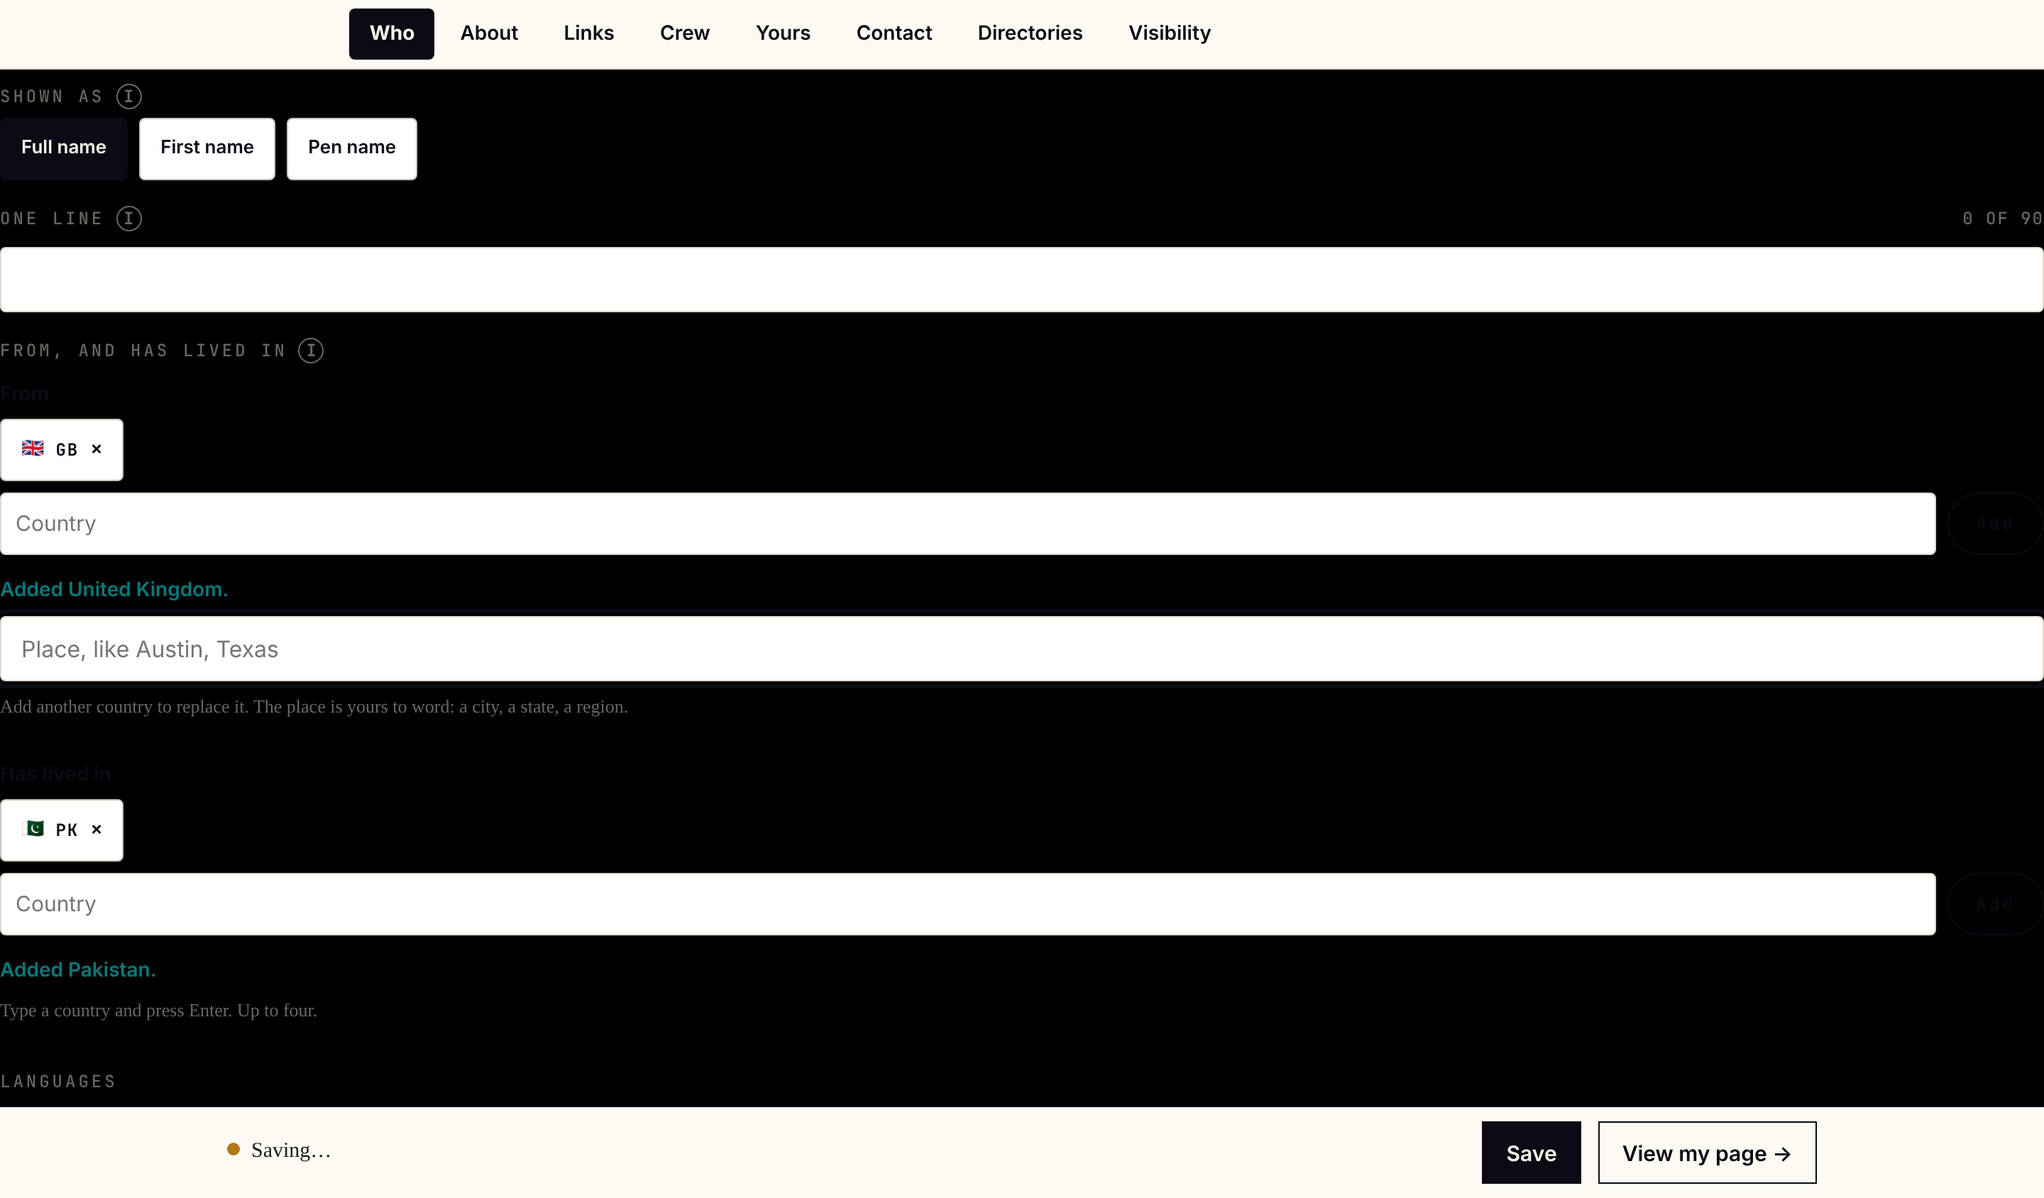
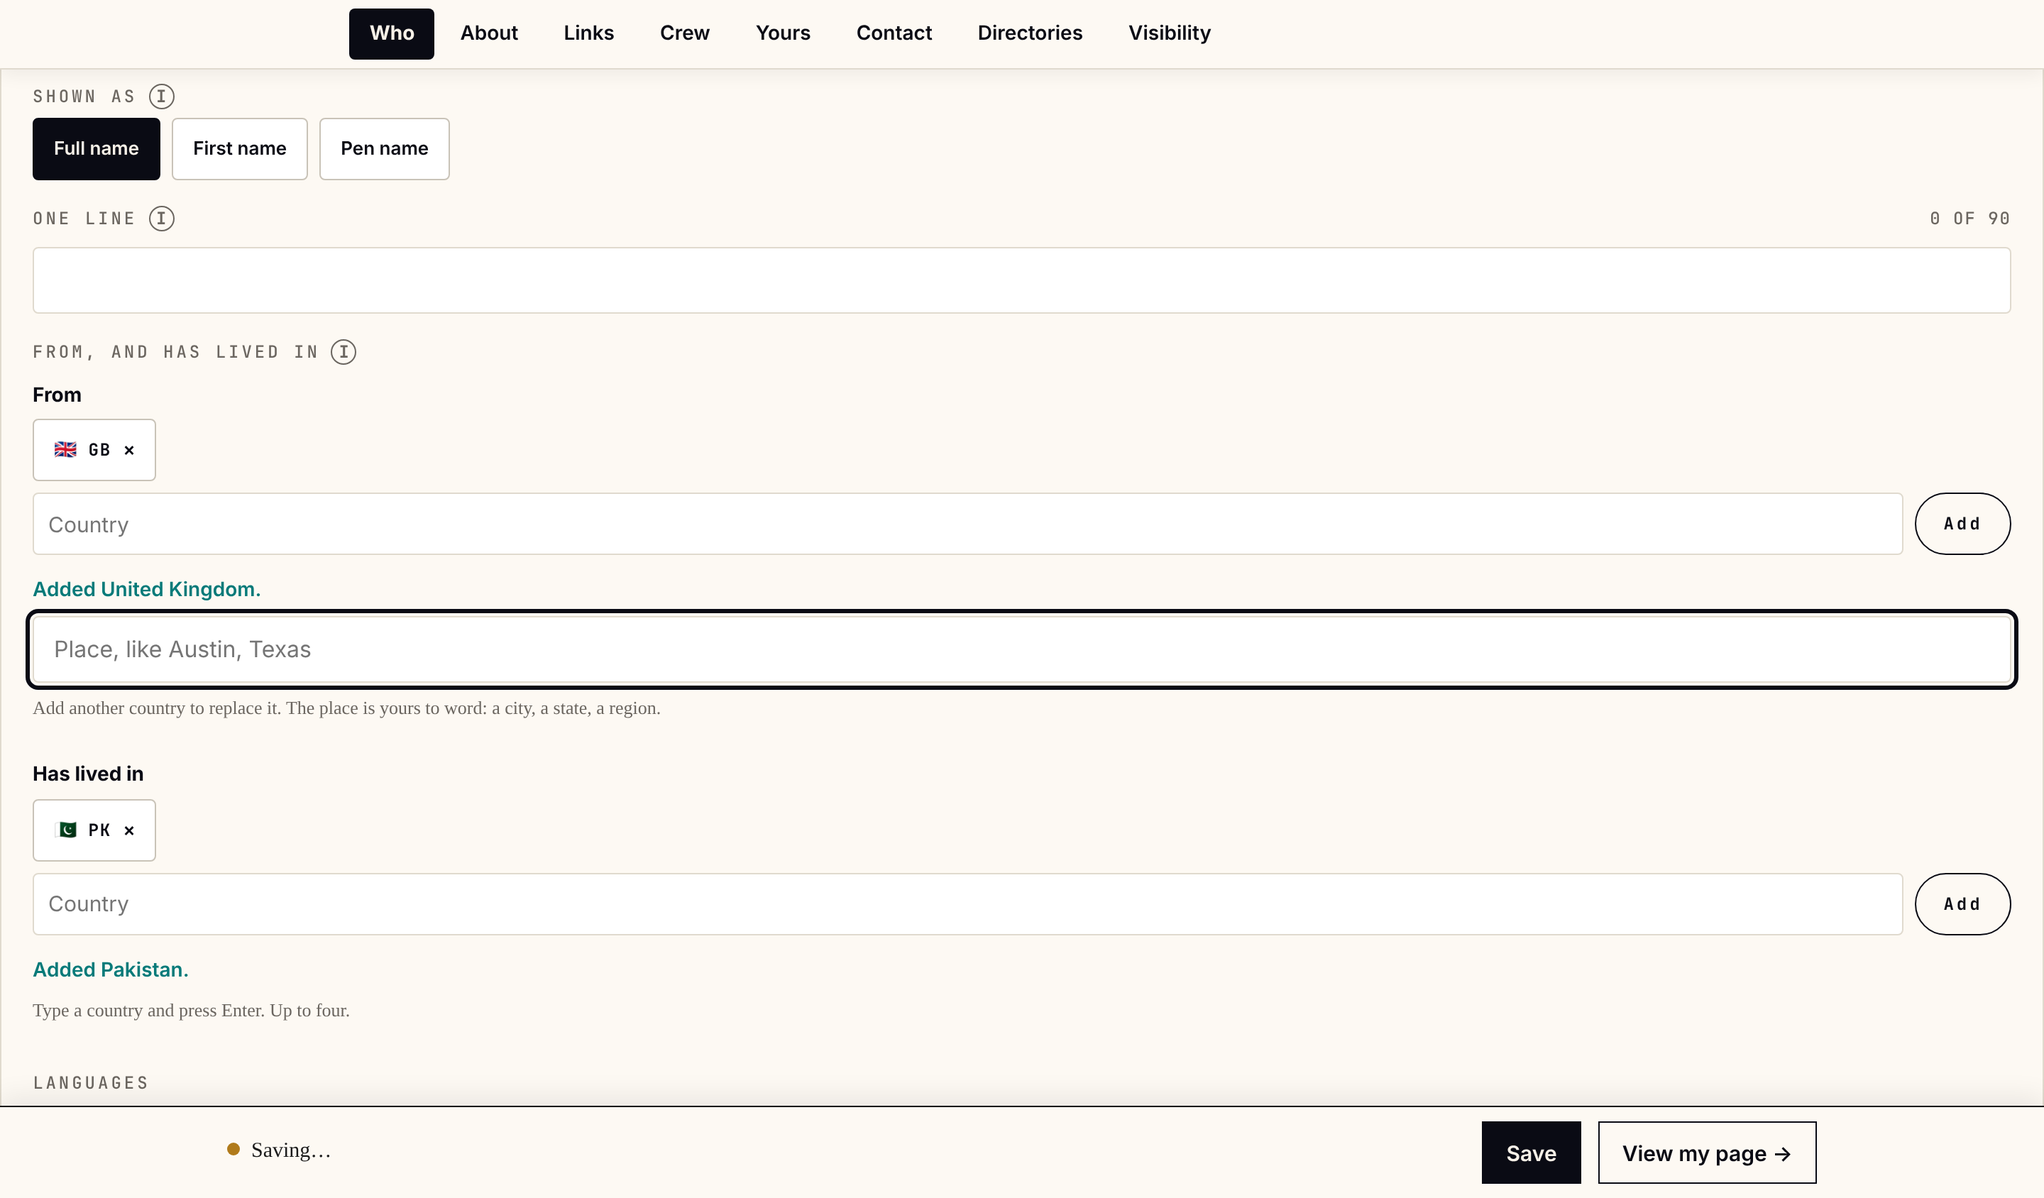
Site layers v16 (16.6.0): /edit-profile in blocks with required and optional marks; Save photo in the crop dialog
Claude-Session: https://claude.ai/code/session_01GTTttGvX2VTwovAB2g1cLf

diff --git a/src/site-layers/tll-site-layers-v16.js b/src/site-layers/tll-site-layers-v16.js
@@ -425,6 +425,15 @@ var CSS=
 ".tll-eps-btn:focus-visible{outline:3px solid #C8325B;outline-offset:2px}"+
 /* preview card: "80-something +AQ" broke mid-word in a third of the card; stats now wrap as whole words */
 "html body .ep-pv-stats{display:flex!important;flex-wrap:wrap;gap:12px 22px}html body .ep-pv-stats>*{min-width:0}html body .ep-pv-stats b{white-space:nowrap;overflow-wrap:normal!important;word-break:keep-all;font-size:28px!important}"+
+/* blocks (Nancy: "too long. Should be in blocks. Also should identify optional vs required") */
+"html body section.ep-sec.tll-eps-blk{position:relative;background:#FDF9F3;border:1.5px solid #E0DACE;border-radius:4px;padding:22px 22px 24px!important;margin:0 0 16px!important}"+
+"html body section.ep-sec.tll-eps-blk>h2.ep-eb{cursor:pointer;padding-right:96px;margin-bottom:12px}"+
+"html body section.ep-sec.tll-eps-shut{padding-bottom:22px!important}html body section.ep-sec.tll-eps-shut>h2.ep-eb{margin-bottom:0}"+
+"html body section.ep-sec.tll-eps-shut>*:not(h2.ep-eb):not(.tll-eps-tog){display:none!important}"+
+".tll-eps-chip{display:inline-block;vertical-align:middle;margin-left:10px;padding:4px 8px;border:1px solid #D9D2C5;border-radius:999px;font:600 12px/1 'JetBrains Mono',ui-monospace,monospace;letter-spacing:.06em;text-transform:uppercase;color:#5F5A54;background:#FFFFFF}"+
+".tll-eps-chip--req{border-color:#C8325B;color:#C8325B}"+
+".tll-eps-tog{position:absolute;top:16px;right:16px;min-height:44px;padding:0 14px;border:1.5px solid #0A0B14;background:transparent;color:#0A0B14;font:600 14px/1 'IBM Plex Sans Condensed',system-ui,sans-serif;cursor:pointer;border-radius:0}"+
+".tll-eps-tog:focus-visible{outline:3px solid #C8325B;outline-offset:2px}"+
 "@media (max-width:520px){.tll-eps-t{font-size:13px}.tll-eps-btn{padding:0 12px;font-size:14px}.tll-eps-btn--ghost{display:none}}"+
 /* country suggestions */
 ".tll-eps-ac{position:relative}"+
@@ -453,13 +462,13 @@ var lastErr='';
 (function(){var f=window.fetch;if(!f||f.__tllEps)return;var w=function(u,o){var p=f.apply(this,arguments);var s=String(u&&u.url||u);
   if(/\/profile\/save$/.test(s))p.then(function(r){if(r.ok){lastErr='';return;}r.clone().json().then(function(j){lastErr=String(j&&j.error||'');paint();}).catch(function(){lastErr='';});}).catch(function(){lastErr='';});
   return p;};w.__tllEps=1;window.fetch=w;})();
-var bar,txt,btn,retry,save,okTimer=0;
+var bar,txt,btn,retry,save,okTimer=0,photoPending=false;
 function hhmm(){var d=new Date();return d.toLocaleTimeString([], {hour:'numeric',minute:'2-digit'});}
 function paint(){var s=$('[data-ep-status]');if(!s||!bar)return;var st=s.getAttribute('data-state')||'',t=(s.textContent||'').trim();
   bar.setAttribute('data-s',st||'idle');
-  if(st==='busy'){txt.innerHTML='<span class="tll-eps-dot"></span>Saving…';}
-  else if(st==='ok'){txt.innerHTML='<span class="tll-eps-dot"></span><b>Saved</b> · '+hhmm();}
-  else if(st==='fail'){var why=/did not update/.test(t)&&lastErr?'Saved to your account. Your public page did not update yet: '+lastErr:t;txt.innerHTML='';var d=el('span','tll-eps-dot');txt.appendChild(d);txt.appendChild(D.createTextNode(why));}
+  if(st==='busy'){txt.innerHTML='<span class="tll-eps-dot"></span>'+(photoPending?'Saving your photo…':'Saving…');}
+  else if(st==='ok'){txt.innerHTML='<span class="tll-eps-dot"></span><b>'+(photoPending?'Photo saved':'Saved')+'</b> · '+hhmm();photoPending=false;}
+  else if(st==='fail'){photoPending=false;var why=/did not update/.test(t)&&lastErr?'Saved to your account. Your public page did not update yet: '+lastErr:t;txt.innerHTML='';var d=el('span','tll-eps-dot');txt.appendChild(d);txt.appendChild(D.createTextNode(why));}
   else{txt.innerHTML='<span class="tll-eps-dot"></span>Changes save as you type, or tap Save.';}
   retry.hidden=st!=='fail';btn.hidden=st==='fail';save.hidden=st==='fail';}
 function buildBar(){if($('.tll-eps'))return;bar=el('div','tll-eps');bar.setAttribute('data-s','idle');
@@ -523,7 +532,7 @@ function show(img,url,input){var back=D.activeElement,ov=el('div','tll-eps-crop'
   card.innerHTML='<h2 id="tll-eps-ch">Place your photo</h2><p>Drag to move it, zoom to fit. The circle is what shows on your card.</p>';
   var st=el('div','tll-eps-stage'),cv=el('canvas');cv.width=720;cv.height=720;st.appendChild(cv);st.tabIndex=0;st.setAttribute('aria-label','Photo position. Arrow keys move it, plus and minus zoom.');
   var zw=el('label','tll-eps-zoom');zw.innerHTML='<span>Zoom</span>';var z=el('input');z.type='range';z.min='1';z.max='3';z.step='0.01';z.value='1';z.setAttribute('aria-label','Zoom');zw.appendChild(z);
-  var acts=el('div','tll-eps-acts'),cancel=el('button','tll-eps-btn tll-eps-btn--ghost'),use=el('button','tll-eps-btn');cancel.type=use.type='button';cancel.textContent='Cancel';use.textContent='Use photo';acts.appendChild(cancel);acts.appendChild(use);
+  var acts=el('div','tll-eps-acts'),cancel=el('button','tll-eps-btn tll-eps-btn--ghost'),use=el('button','tll-eps-btn');cancel.type=use.type='button';cancel.textContent='Cancel';use.textContent='Save photo';acts.appendChild(cancel);acts.appendChild(use);
   card.appendChild(st);card.appendChild(zw);card.appendChild(acts);ov.appendChild(card);D.body.appendChild(ov);
   var W=img.naturalWidth,H=img.naturalHeight,base=Math.max(720/W,720/H),s=base,x=(720-W*s)/2,y=(720-H*s)/2,ctx=cv.getContext('2d');
   function clamp(){var w=W*s,h=H*s;x=Math.min(0,Math.max(720-w,x));y=Math.min(0,Math.max(720-h,y));}
@@ -544,13 +553,35 @@ function show(img,url,input){var back=D.activeElement,ov=el('div','tll-eps-crop'
   D.addEventListener('keydown',esc,true);
   cancel.addEventListener('click',function(){done();input.value='';});
   use.addEventListener('click',function(){var out=el('canvas');out.width=out.height=1080;var o=out.getContext('2d'),k=1080/720;o.fillStyle='#FFFFFF';o.fillRect(0,0,1080,1080);o.drawImage(img,x*k,y*k,W*s*k,H*s*k);
-    out.toBlob(function(b){done();if(!b)return;var f=new File([b],'profile-photo.jpg',{type:'image/jpeg'});pass(input,f);},'image/jpeg',.9);});
+    use.disabled=true;use.textContent='Saving…';out.toBlob(function(b){done();if(!b)return;var f=new File([b],'profile-photo.jpg',{type:'image/jpeg'});photoPending=true;pass(input,f);},'image/jpeg',.9);});
   setTimeout(function(){st.focus();},30);}
 D.addEventListener('change',function(e){var t=e.target;if(!t||t.id!=='ep-f-photo'||t.__tllEpsPass)return;var f=t.files&&t.files[0];if(!f||!/^image\//.test(f.type||'image/'))return;
   e.stopImmediatePropagation();e.preventDefault();cropFlow(f,t);},true);
 
+/* ---------- 6: the page as blocks ---------- */
+var CHIP={'ep-who':['Name required','req'],'ep-dirs':null};
+function setShut(sec,shut){sec.classList.toggle('tll-eps-shut',shut);var b=sec.querySelector(':scope>.tll-eps-tog');if(b){b.textContent=shut?'Open':'Close';b.setAttribute('aria-expanded',shut?'false':'true');}}
+function openTo(id){var sec=D.getElementById(id);if(sec&&sec.classList.contains('tll-eps-blk'))setShut(sec,false);}
+/* Some parts of a section are their own embeds after it (Shown as, One line, From and lived in after Who you are; the bio note after
+   About you). Each part with no section of its own moves into the section before it, so the block holds all of its fields. */
+function gather(){var secs=[].slice.call(D.querySelectorAll('section.ep-sec[id]'));if(!secs.length)return;
+  [].forEach.call(D.querySelectorAll('div[data-ep]'),function(d){var k=d.getAttribute('data-ep');if(k==='top'||d.querySelector('section.ep-sec')||d.closest('section.ep-sec'))return;
+    var prev=null;secs.forEach(function(s){if(s.compareDocumentPosition(d)&Node.DOCUMENT_POSITION_FOLLOWING)prev=s;});
+    if(!prev)return;var next=secs[secs.indexOf(prev)+1];if(next&&(next.compareDocumentPosition(d)&Node.DOCUMENT_POSITION_FOLLOWING))return;
+    prev.appendChild(d);});}
+function blocks(){gather();[].forEach.call(D.querySelectorAll('section.ep-sec[id]'),function(sec,i){if(sec.classList.contains('tll-eps-blk'))return;sec.classList.add('tll-eps-blk');
+  var h=sec.querySelector(':scope>h2.ep-eb');var c=CHIP.hasOwnProperty(sec.id)?CHIP[sec.id]:['Optional',''];
+  if(h&&c){var chip=el('span','tll-eps-chip'+(c[1]?' tll-eps-chip--req':''));chip.textContent=c[0];h.appendChild(chip);}
+  var t=el('button','tll-eps-tog');t.type='button';t.setAttribute('aria-controls',sec.id);sec.appendChild(t);
+  t.addEventListener('click',function(){setShut(sec,!sec.classList.contains('tll-eps-shut'));});
+  if(h)h.addEventListener('click',function(e){if(e.target.closest('a,button,[tabindex]'))return;setShut(sec,!sec.classList.contains('tll-eps-shut'));});
+  setShut(sec,sec.id!=='ep-who'&&location.hash!=='#'+sec.id);});
+  D.addEventListener('click',function(e){var a=e.target.closest&&e.target.closest('a[href^="#ep-"]');if(a){openTo(a.getAttribute('href').slice(1));return;}
+    if(e.target.closest&&e.target.closest('[data-ep-dev-next],[data-ep-next]'))[].forEach.call(D.querySelectorAll('section.tll-eps-shut'),function(x){setShut(x,false);});},true);
+  addEventListener('hashchange',function(){openTo(location.hash.slice(1));});}
+
 function run(){if(!D.getElementById('tll-ep-ux-v1')){var s=el('style');s.id='tll-ep-ux-v1';s.textContent=CSS;D.head.appendChild(s);}
-  buildBar();watchShifts();BOXES.forEach(function(b){wireBox(b[0],b[1]);});
+  buildBar();watchShifts();blocks();BOXES.forEach(function(b){wireBox(b[0],b[1]);});
   /* boxes the page draws later (the expat desks open when Live there is switched on) */
   new MutationObserver(function(){BOXES.forEach(function(b){wireBox(b[0],b[1]);});}).observe(D.body,{childList:true,subtree:true});}
 if(D.readyState==='loading')D.addEventListener('DOMContentLoaded',run);else run();

diff --git a/src/site-layers/tll-ep-ux-v1.js b/src/site-layers/tll-ep-ux-v1.js
@@ -37,6 +37,15 @@ var CSS=
 ".tll-eps-btn:focus-visible{outline:3px solid #C8325B;outline-offset:2px}"+
 /* preview card: "80-something +AQ" broke mid-word in a third of the card; stats now wrap as whole words */
 "html body .ep-pv-stats{display:flex!important;flex-wrap:wrap;gap:12px 22px}html body .ep-pv-stats>*{min-width:0}html body .ep-pv-stats b{white-space:nowrap;overflow-wrap:normal!important;word-break:keep-all;font-size:28px!important}"+
+/* blocks (Nancy: "too long. Should be in blocks. Also should identify optional vs required") */
+"html body section.ep-sec.tll-eps-blk{position:relative;background:#FDF9F3;border:1.5px solid #E0DACE;border-radius:4px;padding:22px 22px 24px!important;margin:0 0 16px!important}"+
+"html body section.ep-sec.tll-eps-blk>h2.ep-eb{cursor:pointer;padding-right:96px;margin-bottom:12px}"+
+"html body section.ep-sec.tll-eps-shut{padding-bottom:22px!important}html body section.ep-sec.tll-eps-shut>h2.ep-eb{margin-bottom:0}"+
+"html body section.ep-sec.tll-eps-shut>*:not(h2.ep-eb):not(.tll-eps-tog){display:none!important}"+
+".tll-eps-chip{display:inline-block;vertical-align:middle;margin-left:10px;padding:4px 8px;border:1px solid #D9D2C5;border-radius:999px;font:600 12px/1 'JetBrains Mono',ui-monospace,monospace;letter-spacing:.06em;text-transform:uppercase;color:#5F5A54;background:#FFFFFF}"+
+".tll-eps-chip--req{border-color:#C8325B;color:#C8325B}"+
+".tll-eps-tog{position:absolute;top:16px;right:16px;min-height:44px;padding:0 14px;border:1.5px solid #0A0B14;background:transparent;color:#0A0B14;font:600 14px/1 'IBM Plex Sans Condensed',system-ui,sans-serif;cursor:pointer;border-radius:0}"+
+".tll-eps-tog:focus-visible{outline:3px solid #C8325B;outline-offset:2px}"+
 "@media (max-width:520px){.tll-eps-t{font-size:13px}.tll-eps-btn{padding:0 12px;font-size:14px}.tll-eps-btn--ghost{display:none}}"+
 /* country suggestions */
 ".tll-eps-ac{position:relative}"+
@@ -65,13 +74,13 @@ var lastErr='';
 (function(){var f=window.fetch;if(!f||f.__tllEps)return;var w=function(u,o){var p=f.apply(this,arguments);var s=String(u&&u.url||u);
   if(/\/profile\/save$/.test(s))p.then(function(r){if(r.ok){lastErr='';return;}r.clone().json().then(function(j){lastErr=String(j&&j.error||'');paint();}).catch(function(){lastErr='';});}).catch(function(){lastErr='';});
   return p;};w.__tllEps=1;window.fetch=w;})();
-var bar,txt,btn,retry,save,okTimer=0;
+var bar,txt,btn,retry,save,okTimer=0,photoPending=false;
 function hhmm(){var d=new Date();return d.toLocaleTimeString([], {hour:'numeric',minute:'2-digit'});}
 function paint(){var s=$('[data-ep-status]');if(!s||!bar)return;var st=s.getAttribute('data-state')||'',t=(s.textContent||'').trim();
   bar.setAttribute('data-s',st||'idle');
-  if(st==='busy'){txt.innerHTML='<span class="tll-eps-dot"></span>Saving…';}
-  else if(st==='ok'){txt.innerHTML='<span class="tll-eps-dot"></span><b>Saved</b> · '+hhmm();}
-  else if(st==='fail'){var why=/did not update/.test(t)&&lastErr?'Saved to your account. Your public page did not update yet: '+lastErr:t;txt.innerHTML='';var d=el('span','tll-eps-dot');txt.appendChild(d);txt.appendChild(D.createTextNode(why));}
+  if(st==='busy'){txt.innerHTML='<span class="tll-eps-dot"></span>'+(photoPending?'Saving your photo…':'Saving…');}
+  else if(st==='ok'){txt.innerHTML='<span class="tll-eps-dot"></span><b>'+(photoPending?'Photo saved':'Saved')+'</b> · '+hhmm();photoPending=false;}
+  else if(st==='fail'){photoPending=false;var why=/did not update/.test(t)&&lastErr?'Saved to your account. Your public page did not update yet: '+lastErr:t;txt.innerHTML='';var d=el('span','tll-eps-dot');txt.appendChild(d);txt.appendChild(D.createTextNode(why));}
   else{txt.innerHTML='<span class="tll-eps-dot"></span>Changes save as you type, or tap Save.';}
   retry.hidden=st!=='fail';btn.hidden=st==='fail';save.hidden=st==='fail';}
 function buildBar(){if($('.tll-eps'))return;bar=el('div','tll-eps');bar.setAttribute('data-s','idle');
@@ -135,7 +144,7 @@ function show(img,url,input){var back=D.activeElement,ov=el('div','tll-eps-crop'
   card.innerHTML='<h2 id="tll-eps-ch">Place your photo</h2><p>Drag to move it, zoom to fit. The circle is what shows on your card.</p>';
   var st=el('div','tll-eps-stage'),cv=el('canvas');cv.width=720;cv.height=720;st.appendChild(cv);st.tabIndex=0;st.setAttribute('aria-label','Photo position. Arrow keys move it, plus and minus zoom.');
   var zw=el('label','tll-eps-zoom');zw.innerHTML='<span>Zoom</span>';var z=el('input');z.type='range';z.min='1';z.max='3';z.step='0.01';z.value='1';z.setAttribute('aria-label','Zoom');zw.appendChild(z);
-  var acts=el('div','tll-eps-acts'),cancel=el('button','tll-eps-btn tll-eps-btn--ghost'),use=el('button','tll-eps-btn');cancel.type=use.type='button';cancel.textContent='Cancel';use.textContent='Use photo';acts.appendChild(cancel);acts.appendChild(use);
+  var acts=el('div','tll-eps-acts'),cancel=el('button','tll-eps-btn tll-eps-btn--ghost'),use=el('button','tll-eps-btn');cancel.type=use.type='button';cancel.textContent='Cancel';use.textContent='Save photo';acts.appendChild(cancel);acts.appendChild(use);
   card.appendChild(st);card.appendChild(zw);card.appendChild(acts);ov.appendChild(card);D.body.appendChild(ov);
   var W=img.naturalWidth,H=img.naturalHeight,base=Math.max(720/W,720/H),s=base,x=(720-W*s)/2,y=(720-H*s)/2,ctx=cv.getContext('2d');
   function clamp(){var w=W*s,h=H*s;x=Math.min(0,Math.max(720-w,x));y=Math.min(0,Math.max(720-h,y));}
@@ -156,13 +165,35 @@ function show(img,url,input){var back=D.activeElement,ov=el('div','tll-eps-crop'
   D.addEventListener('keydown',esc,true);
   cancel.addEventListener('click',function(){done();input.value='';});
   use.addEventListener('click',function(){var out=el('canvas');out.width=out.height=1080;var o=out.getContext('2d'),k=1080/720;o.fillStyle='#FFFFFF';o.fillRect(0,0,1080,1080);o.drawImage(img,x*k,y*k,W*s*k,H*s*k);
-    out.toBlob(function(b){done();if(!b)return;var f=new File([b],'profile-photo.jpg',{type:'image/jpeg'});pass(input,f);},'image/jpeg',.9);});
+    use.disabled=true;use.textContent='Saving…';out.toBlob(function(b){done();if(!b)return;var f=new File([b],'profile-photo.jpg',{type:'image/jpeg'});photoPending=true;pass(input,f);},'image/jpeg',.9);});
   setTimeout(function(){st.focus();},30);}
 D.addEventListener('change',function(e){var t=e.target;if(!t||t.id!=='ep-f-photo'||t.__tllEpsPass)return;var f=t.files&&t.files[0];if(!f||!/^image\//.test(f.type||'image/'))return;
   e.stopImmediatePropagation();e.preventDefault();cropFlow(f,t);},true);
 
+/* ---------- 6: the page as blocks ---------- */
+var CHIP={'ep-who':['Name required','req'],'ep-dirs':null};
+function setShut(sec,shut){sec.classList.toggle('tll-eps-shut',shut);var b=sec.querySelector(':scope>.tll-eps-tog');if(b){b.textContent=shut?'Open':'Close';b.setAttribute('aria-expanded',shut?'false':'true');}}
+function openTo(id){var sec=D.getElementById(id);if(sec&&sec.classList.contains('tll-eps-blk'))setShut(sec,false);}
+/* Some parts of a section are their own embeds after it (Shown as, One line, From and lived in after Who you are; the bio note after
+   About you). Each part with no section of its own moves into the section before it, so the block holds all of its fields. */
+function gather(){var secs=[].slice.call(D.querySelectorAll('section.ep-sec[id]'));if(!secs.length)return;
+  [].forEach.call(D.querySelectorAll('div[data-ep]'),function(d){var k=d.getAttribute('data-ep');if(k==='top'||d.querySelector('section.ep-sec')||d.closest('section.ep-sec'))return;
+    var prev=null;secs.forEach(function(s){if(s.compareDocumentPosition(d)&Node.DOCUMENT_POSITION_FOLLOWING)prev=s;});
+    if(!prev)return;var next=secs[secs.indexOf(prev)+1];if(next&&(next.compareDocumentPosition(d)&Node.DOCUMENT_POSITION_FOLLOWING))return;
+    prev.appendChild(d);});}
+function blocks(){gather();[].forEach.call(D.querySelectorAll('section.ep-sec[id]'),function(sec,i){if(sec.classList.contains('tll-eps-blk'))return;sec.classList.add('tll-eps-blk');
+  var h=sec.querySelector(':scope>h2.ep-eb');var c=CHIP.hasOwnProperty(sec.id)?CHIP[sec.id]:['Optional',''];
+  if(h&&c){var chip=el('span','tll-eps-chip'+(c[1]?' tll-eps-chip--req':''));chip.textContent=c[0];h.appendChild(chip);}
+  var t=el('button','tll-eps-tog');t.type='button';t.setAttribute('aria-controls',sec.id);sec.appendChild(t);
+  t.addEventListener('click',function(){setShut(sec,!sec.classList.contains('tll-eps-shut'));});
+  if(h)h.addEventListener('click',function(e){if(e.target.closest('a,button,[tabindex]'))return;setShut(sec,!sec.classList.contains('tll-eps-shut'));});
+  setShut(sec,sec.id!=='ep-who'&&location.hash!=='#'+sec.id);});
+  D.addEventListener('click',function(e){var a=e.target.closest&&e.target.closest('a[href^="#ep-"]');if(a){openTo(a.getAttribute('href').slice(1));return;}
+    if(e.target.closest&&e.target.closest('[data-ep-dev-next],[data-ep-next]'))[].forEach.call(D.querySelectorAll('section.tll-eps-shut'),function(x){setShut(x,false);});},true);
+  addEventListener('hashchange',function(){openTo(location.hash.slice(1));});}
+
 function run(){if(!D.getElementById('tll-ep-ux-v1')){var s=el('style');s.id='tll-ep-ux-v1';s.textContent=CSS;D.head.appendChild(s);}
-  buildBar();watchShifts();BOXES.forEach(function(b){wireBox(b[0],b[1]);});
+  buildBar();watchShifts();blocks();BOXES.forEach(function(b){wireBox(b[0],b[1]);});
   /* boxes the page draws later (the expat desks open when Live there is switched on) */
   new MutationObserver(function(){BOXES.forEach(function(b){wireBox(b[0],b[1]);});}).observe(D.body,{childList:true,subtree:true});}
 if(D.readyState==='loading')D.addEventListener('DOMContentLoaded',run);else run();
